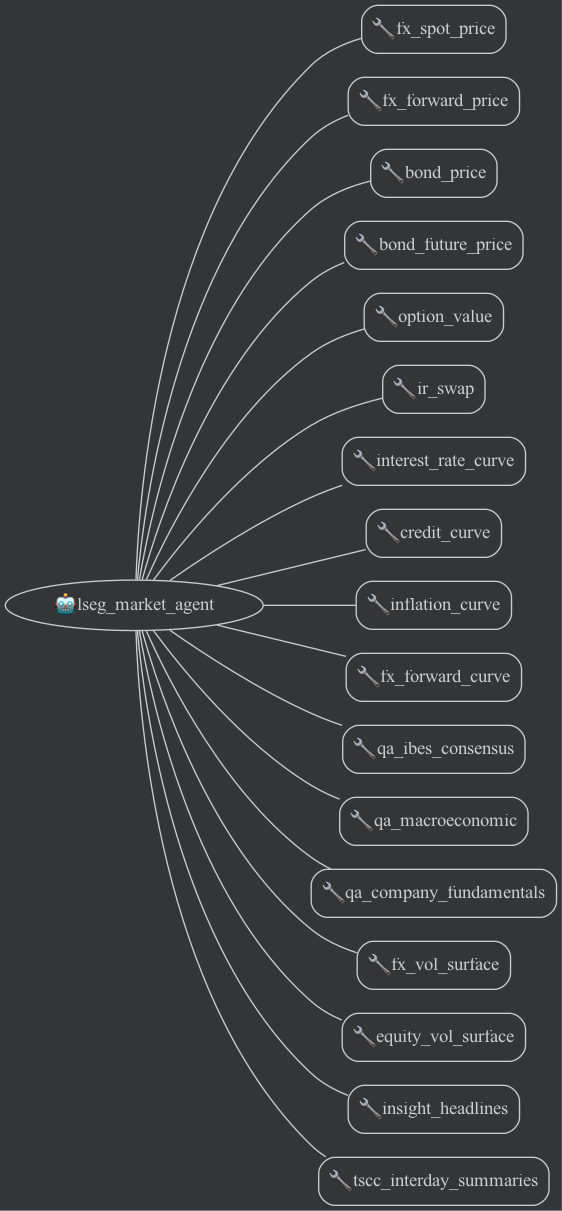
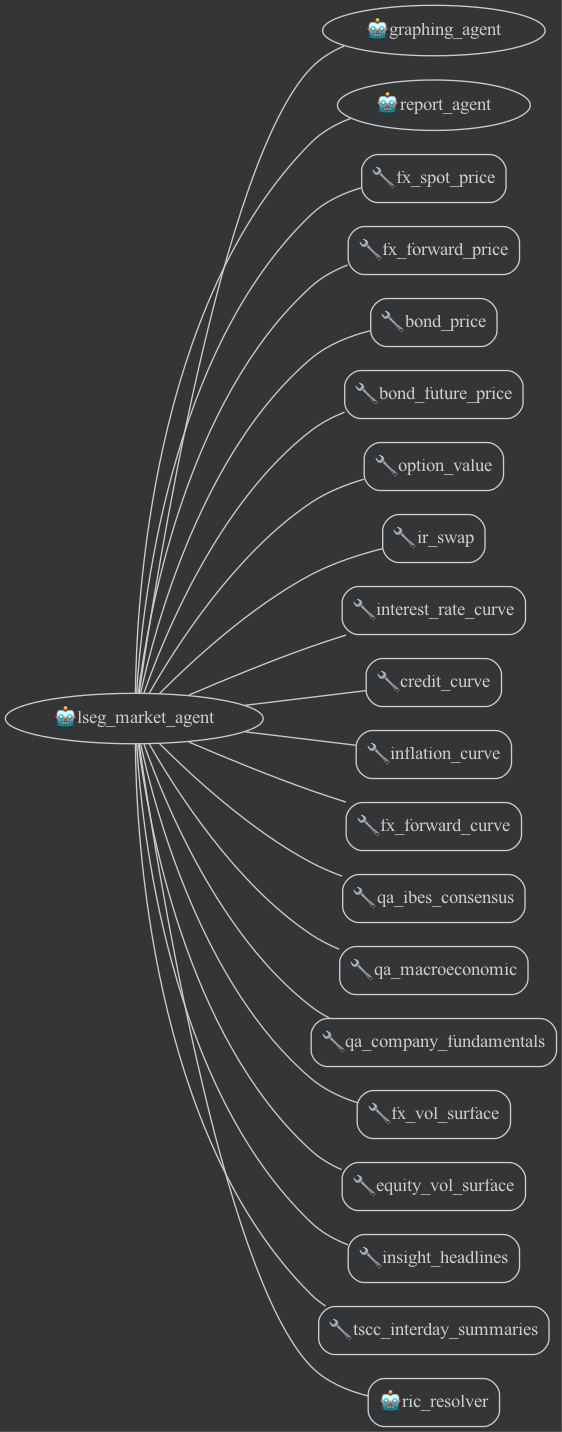
feat: Add RIC resolver agent, implement a plugin for handling graph outputs in reports, and update deployment configuration.

diff --git a/lseg_market_agent/plugins.py b/lseg_market_agent/plugins.py
@@ -1,0 +1,119 @@
+import os
+import re
+from typing import Optional
+from google.adk.plugins import BasePlugin
+from google.adk.events import Event
+from google.adk.agents import InvocationContext
+
+# Lazy import to avoid crash if not installed for local-only execution
+# google-cloud-storage will be needed for Agent Engine
+try:
+    from google.cloud import storage
+except ImportError:
+    storage = None
+
+class ReportGraphFixerPlugin(BasePlugin):
+    """
+    Intercepts the report agent response, finds images from graphing agent in history,
+    saves them to local files OR uploads to Google Cloud Storage (GCS),
+    and updates the report markdown with the correct path or URL.
+    """
+    def __init__(self, output_dir: str = "generated_reports/images", gcs_bucket: Optional[str] = None):
+        from dotenv import load_dotenv
+        load_dotenv() # Force reading isolat d local .env if uploaded in package bundle
+        super().__init__(name="report_graph_fixer")
+        self.output_dir = output_dir
+        self.gcs_bucket = gcs_bucket or os.environ.get("GRAPH_OUTPUT_BUCKET")
+
+    async def on_event_callback(
+        self, *, invocation_context: InvocationContext, event: Event
+    ) -> Optional[Event]:
+        # Intercept any agent that references graphs
+        if not event.content or not event.content.parts:
+            return None
+
+        report_text = event.content.parts[0].text
+        if not report_text:
+            return None
+
+        os.makedirs(self.output_dir, exist_ok=True)
+
+        image_paths = []
+        is_using_gcs = False
+
+        # Initialize GCS Client if bucket is configured
+        gcs_client = None
+        bucket = None
+        if self.gcs_bucket:
+            if storage is None:
+                 print("[Plugin] Error: google-cloud-storage package is missing. Cannot upload to GCS.")
+            else:
+                 try:
+                     gcs_client = storage.Client()
+                     bucket = gcs_client.bucket(self.gcs_bucket)
+                     is_using_gcs = True
+                     print(f"[Plugin] Using GCS bucket: {self.gcs_bucket}")
+                 except Exception as e:
+                     print(f"[Plugin] Error initializing GCS client: {e}")
+
+        print(f"[Plugin] on_event_callback triggered from {event.author}")
+        if is_using_gcs:
+            print("[Plugin] GCS mode active")
+
+        # 1. Scan filesystem for generated image files
+        # Vertex AI code interpreters and executors save plots as files rather than inline_data
+        import glob
+        found_files = glob.glob("*.png") + glob.glob("/tmp/*.png")
+        print(f"[Plugin] Found {len(found_files)} image files on disk to process: {found_files}")
+
+        for filepath in found_files:
+            try:
+                filename = os.path.basename(filepath)
+                with open(filepath, "rb") as f:
+                    image_data = f.read()
+
+                mime = "image/png" # Matplotlib defaults to PNG
+                if is_using_gcs and bucket:
+                    # Upload to GCS
+                    blob_path = f"graphs/{filename}"
+                    blob = bucket.blob(blob_path)
+                    blob.upload_from_string(image_data, content_type=mime)
+                    
+                    public_url = f"https://storage.googleapis.com/{self.gcs_bucket}/{blob_path}"
+                    image_paths.append(public_url)
+                    print(f"[Plugin] Saved graph file to GCS: {public_url}")
+                else:
+                    # Fallback: Copy to output_dir
+                    target_filepath = os.path.join(self.output_dir, filename)
+                    with open(target_filepath, "wb") as f:
+                        f.write(image_data)
+                    image_paths.append(target_filepath)
+                    print(f"[Plugin] Copied graph file locally to {target_filepath}")
+
+                # DELETE file from isolate after processing to prevent re-uploading next turn
+                os.remove(filepath)
+                print(f"[Plugin] Cleaned up temporary isolate file: {filepath}")
+
+            except Exception as e:
+                 print(f"[Plugin] Error processing file {filepath}: {e}")
+
+        if not image_paths:
+            return None
+
+        # Replace placeholders in report_text
+        updated_text = report_text
+        pattern = r"!\[.*?\]\(.*?\)"
+        matches = list(re.finditer(pattern, updated_text))
+        
+        if matches and len(matches) <= len(image_paths):
+            print(f"[Plugin] Found {len(matches)} image placeholders. Replacing...")
+            for match, path in zip(matches, image_paths):
+                updated_text = updated_text.replace(match.group(0), f"![Graph]({path})")
+        else:
+            print(f"[Plugin] Appending {len(image_paths)} graphs at the bottom of the report.")
+            updated_text += "\n\n---\n## Generated Graphs\n"
+            for path in image_paths:
+                updated_text += f"\n![Graph]({path})\n"
+
+        event.content.parts[0].text = updated_text
+        return event

diff --git a/lseg_market_agent/agent.py b/lseg_market_agent/agent.py
@@ -5,6 +5,8 @@ from .config import config
 from .helpercode import get_project_id
 from google import genai
 from google.adk.models import google_llm
+from google.adk.tools import google_search
+from google.adk.tools import AgentTool
 
 api_client = genai.Client(
     vertexai=True,
@@ -13,6 +15,23 @@ api_client = genai.Client(
 )
 model = google_llm.Gemini(model=config.gemini_model)
 model.api_client= api_client 
+
+
+RIC_RESOLVER_INSTRUCTION = (
+    "You are a stock RIC Code or Symbol resolver. "
+    "When given a company name, use google_search to find its official stock RIC Code and Symbol "
+    "Search for '<company name> stock RIC Code and Symbol site:finance.yahoo.com OR site:google.com/finance'. "
+    "Return only the RIC Code and Symbol as plain text so that it can be used in other tools."
+    "Do not include any explanation"
+)
+
+ric_resolver_agent = LlmAgent(
+    model=model,
+    name="ric_resolver",
+    description="Resolves a company name to its stock RIC Code and Symbol using Google Search.",
+    instruction=RIC_RESOLVER_INSTRUCTION,
+    tools=[google_search],
+)
 
 AGENT_INSTRUCTIONS = """You are a highly capable Cross-Asset Market Intelligence & Valuation Agent for LSEG.
 Your objective is to provide a comprehensive, multi-modal analysis of companies and macroeconomic conditions by synthesizing data from the LSEG MCP server.
@@ -84,6 +103,6 @@ root_agent = LlmAgent(
     name="lseg_market_agent",
     model=model,
     instruction=AGENT_INSTRUCTIONS,
-    tools=[mcp_client_bridge.create_lseg_mcp_toolset()],
+    tools=[mcp_client_bridge.create_lseg_mcp_toolset(), AgentTool(ric_resolver_agent)],
     sub_agents=[graphing_agent, report_agent]
 )

diff --git a/README.md b/README.md
@@ -8,6 +8,8 @@ This project is a demonstration of a multi-agent system built with the **Google 
 
 The architecture illustrates a powerful synergy between the Google ADK and LSEG's specialized financial APIs bridged via standard MCP:
 
+![Agent Architecture Diagram](agent_diagram.png)
+
 1. **Multi-Agent Orchestration (Google ADK)**: The system is structured using a multi-agent framework:
    - **Root Orchestrator (`lseg_market_agent`)**: Acts as the cognitive orchestration engine. It autonomously queries the LSEG tools, tracks context, and delegates tasks to sub-agents.
    - **Graphing Sub-Agent (`graphing_agent`)**: Equipped with a Python Code Execution environment (`BuiltInCodeExecutor`) to dynamically generate financial plots, candlestick charts, and visualizations from the data retrieved by the orchestrator.
